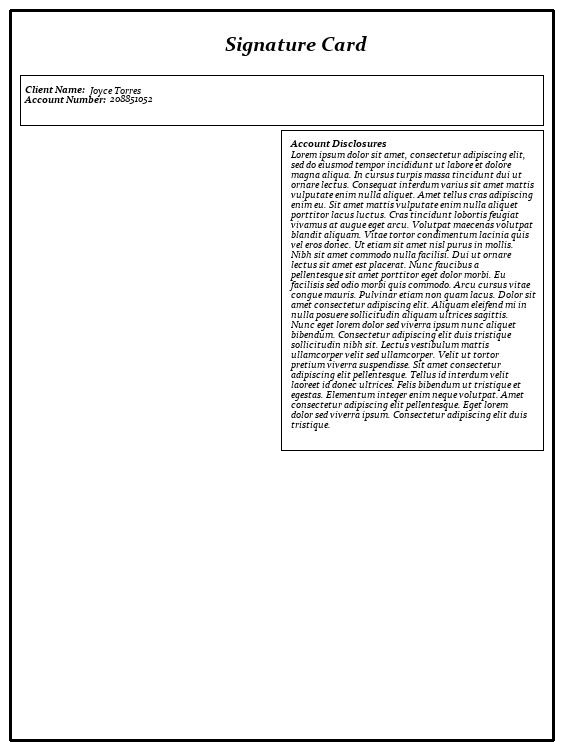
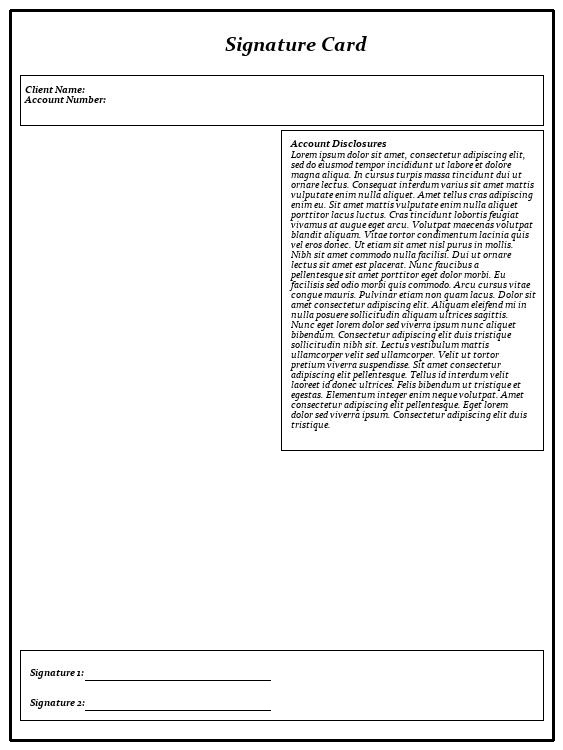
Created script to create a bulk amount of random sig cards

Changed region(s): [[0.0302, 0.8893, 0.151, 0.9507], [0.1812, 0.092, 0.2718, 0.1533]]

diff --git a/create_template.py b/create_template.py
@@ -53,10 +53,12 @@ with open("misc/last_names.txt") as last_name_file:
 			if name != '':
 				last_names_list.append(name)
 #print(last_names_list)
+
+#writes name
 randomname = random.choice(first_names_list) + " " + random.choice(last_names_list)
 name = ImageDraw.Draw(template)
 name.font = ImageFont.truetype(r'C:\Windows\Fonts\Constantia\constani.ttf', 10) 
-title.text((90,86), randomname, font = name.font, fill=(0,0,0))
+#title.text((90,86), randomname, font = name.font, fill=(0,0,0))
 
 
 #writes name title
@@ -65,22 +67,15 @@ accounttitle.font = ImageFont.truetype(r'C:\Windows\Fonts\Constantia\constanz.tt
 accounttitle.text((25,96), "Account Number:", font = accounttitle.font, fill=(0,0,0))
 
 
-#writes account title
-account = ImageDraw.Draw(template)
-account.font = ImageFont.truetype(r'C:\Windows\Fonts\Constantia\constani.ttf', 10) 
-title.text((110,94), str(random.randint(100000001, 999999999)), font = account.font, fill=(0,0,0))
-
-#writes name title
 
 
-
-
+#writes account disclosures title
 disclosuretitle = ImageDraw.Draw(template)
 disclosuretitle.font = ImageFont.truetype(r'C:\Windows\Fonts\Constantia\constanz.ttf', 10) 
 disclosuretitle.text((291,140), "Account Disclosures", font = disclosuretitle.font, fill=(0,0,0))
 
 
-#writes disclosure title
+#writes disclosure content
 disclosuretext = "Lorem ipsum dolor sit amet, consectetur adipiscing elit, sed do eiusmod tempor incididunt ut labore et dolore magna aliqua. In cursus turpis massa tincidunt dui ut ornare lectus. Consequat interdum varius sit amet mattis vulputate enim nulla aliquet. Amet tellus cras adipiscing enim eu. Sit amet mattis vulputate enim nulla aliquet porttitor lacus luctus. Cras tincidunt lobortis feugiat vivamus at augue eget arcu. Volutpat maecenas volutpat blandit aliquam. Vitae tortor condimentum lacinia quis vel eros donec. Ut etiam sit amet nisl purus in mollis. Nibh sit amet commodo nulla facilisi.\nDui ut ornare lectus sit amet est placerat. Nunc faucibus a pellentesque sit amet porttitor eget dolor morbi. Eu facilisis sed odio morbi quis commodo. Arcu cursus vitae congue mauris. Pulvinar etiam non quam lacus. Dolor sit amet consectetur adipiscing elit. Aliquam eleifend mi in nulla posuere sollicitudin aliquam ultrices sagittis. Nunc eget lorem dolor sed viverra ipsum nunc aliquet bibendum. Consectetur adipiscing elit duis tristique sollicitudin nibh sit. Lectus vestibulum mattis ullamcorper velit sed ullamcorper. Velit ut tortor pretium viverra suspendisse. Sit amet consectetur adipiscing elit pellentesque. Tellus id interdum velit laoreet id donec ultrices. Felis bibendum ut tristique et egestas. Elementum integer enim neque volutpat. Amet consectetur adipiscing elit pellentesque. Eget lorem dolor sed viverra ipsum. Consectetur adipiscing elit duis tristique."
 disclosuretextarray = wrap(disclosuretext, width=57)
 print(disclosuretextarray)
@@ -91,6 +86,14 @@ for text in disclosuretextarray:
 	title.text((291,150+(row*10)), text, font = disclosure.font, fill=(0,0,0))
 	row += 1
 
+#writes signature title
+signaturetitle = ImageDraw.Draw(template)
+signaturetitle.font = ImageFont.truetype(r'C:\Windows\Fonts\Constantia\constanz.ttf', 10) 
+signaturetitle.text((30, 668), "Signature 1: ", font = signaturetitle.font, fill=(0,0,0))
+
+signature2title = ImageDraw.Draw(template)
+signature2title.font = ImageFont.truetype(r'C:\Windows\Fonts\Constantia\constanz.ttf', 10) 
+signature2title.text((30, 698), "Signature 2: ", font = signature2title.font, fill=(0,0,0))
 
 
 
@@ -101,6 +104,9 @@ template = cv2.imread("template.jpg")
 border = cv2.rectangle(template, (10,10), (553, 740), (0, 0, 0), 2) #draws the border
 customer_information_border = cv2.rectangle(template, (20, 75), (543, 125), (0, 0, 0), 1) #draws the border around customer information
 disclosure_border = cv2.rectangle(template, (281, 130), (543, 450), (0, 0, 0), 1) #draws the border around the disclosure stuff
+signature_border = cv2.rectangle(template, (20, 650), (543, 720), (0, 0, 0), 1) #draws the border around the disclosure stuff
+signature_line = cv2.line(template, (85, 680), (270,680), (0, 0, 0), 1)
+signature_line2 = cv2.line(template, (85, 710), (270,710), (0, 0, 0), 1)
 
 cv2.imwrite('template.jpg', template)
 cv2.imshow('template', template)

diff --git a/create_bulk_signature_cards.py b/create_bulk_signature_cards.py
@@ -1,0 +1,79 @@
+#create a bunch of signature cards
+
+#imports
+from PIL import Image, ImageDraw, ImageFont
+import cv2
+try:
+	import random
+except:
+	print("Random not installed. pip install random. Exiting now.")
+	exit()
+try:
+	import csv
+except:
+	print("CSV not installed. Google the PIP command to install. Exiting now.")
+	exit()
+try:
+	import os
+except:
+	print("os not installed. Google the PIP command to install. Exiting now.")
+	exit()
+
+#used for the loop to get user to enter a valid number.
+numberSet = True #while testing, set this equal to true to avoid the loop. True will just use the below number whereas False will prompt the loop
+number = 5
+
+while numberSet == False:
+	try:
+		number = int(input("How many signature cards do you want to create?"))
+		number = number - 1 #We will use range later, which I believe includes 0
+		Numberset = True
+		break
+	except:
+		print("Please enter an integer.")
+
+
+#checks for the created folder
+if not os.path.exists('created'):
+    os.makedirs('created')
+
+#loop to create signature cards
+for number in range(number):
+	sigcard = Image.open('template.jpg')
+
+	#generates new name
+	first_names_list = []
+	with open("misc/first_names.txt") as first_name_file:
+		first_names = csv.reader(first_name_file)
+
+		for name in first_names:
+			for name in name:
+				if name != '':
+					first_names_list.append(name)
+	#print(first_names_list)
+
+	last_names_list = []
+	with open("misc/last_names.txt") as last_name_file:
+		last_names = csv.reader(last_name_file)
+
+		for name in last_names:
+			for name in name:
+				if name != '':
+					last_names_list.append(name)
+	#print(last_names_list)
+	randomname = random.choice(first_names_list) + " " + random.choice(last_names_list)
+
+
+	#writes name
+	name = ImageDraw.Draw(sigcard)
+	name.font = ImageFont.truetype(r'C:\Windows\Fonts\Constantia\constani.ttf', 10) 
+	name.text((90,86), randomname, font = name.font, fill=(0,0,0))
+
+	#writes new account number
+	account = ImageDraw.Draw(sigcard)
+	account.font = ImageFont.truetype(r'C:\Windows\Fonts\Constantia\constani.ttf', 10) 
+	account.text((110,94), str(random.randint(100000001, 999999999)), font = account.font, fill=(0,0,0))
+
+	sigcard.save(f"created/{number}.jpg")
+print("Done!!")
+exit()
